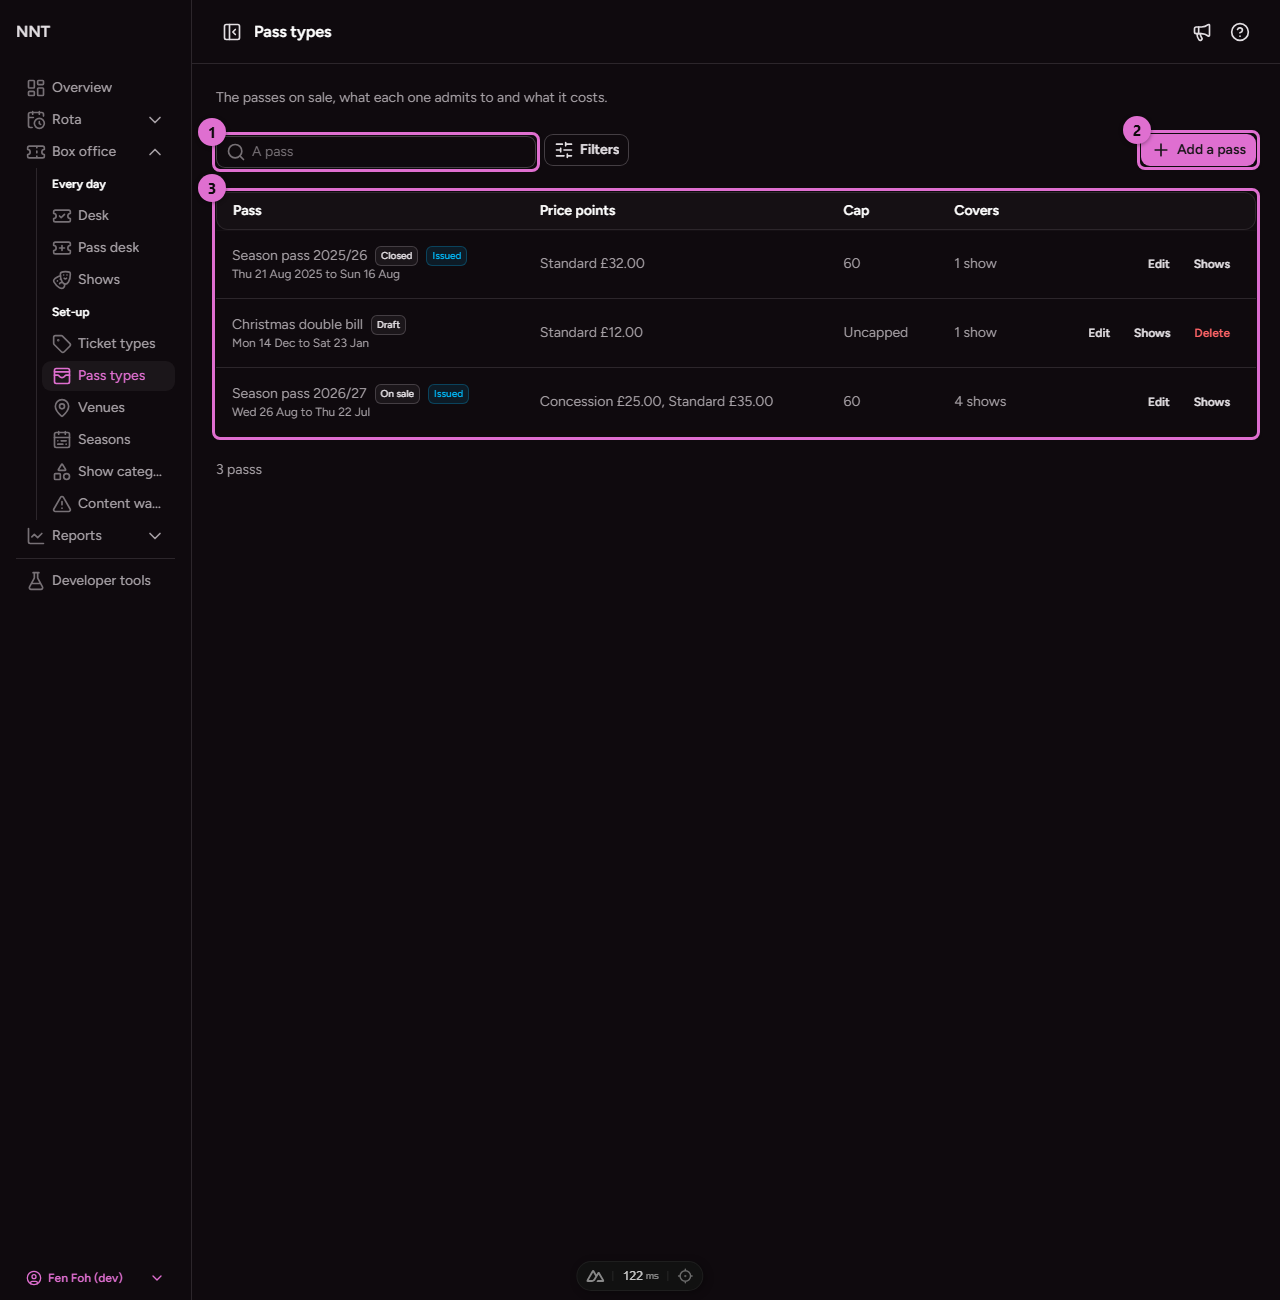
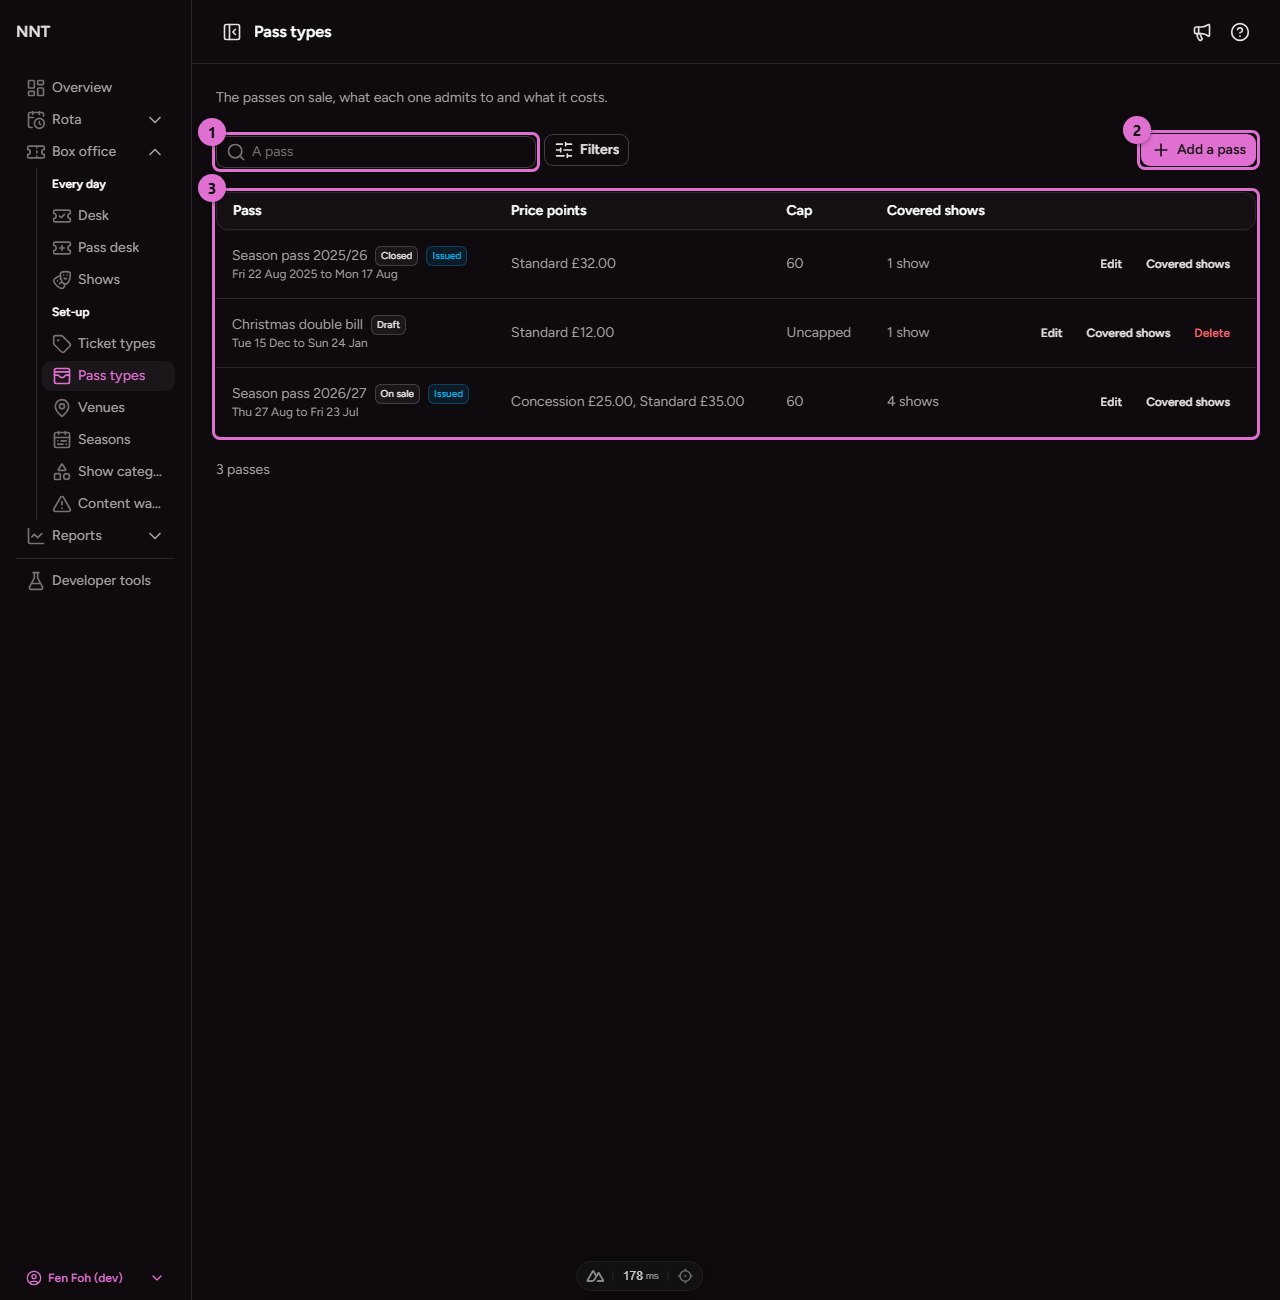
Retake the show and pass type pictures with the passes line and one name for covered shows

diff --git a/scripts/docs-shots/box-office.ts b/scripts/docs-shots/box-office.ts
@@ -53,6 +53,8 @@ export const boxOffice: Shot[] = [
     url: '/box-office/shows',
     marker: '[data-test="shows-table"]',
     width: CONSOLE_WIDTH,
+    // The rail's checklist and danger zone reach past the default height (issue 1323).
+    height: 1400,
     after: 'document.querySelector(\'[data-test^="open-"]\')?.click()',
     annotations: [
       { selector: '[data-test="show-strip"]', label: 'Status strip' },
